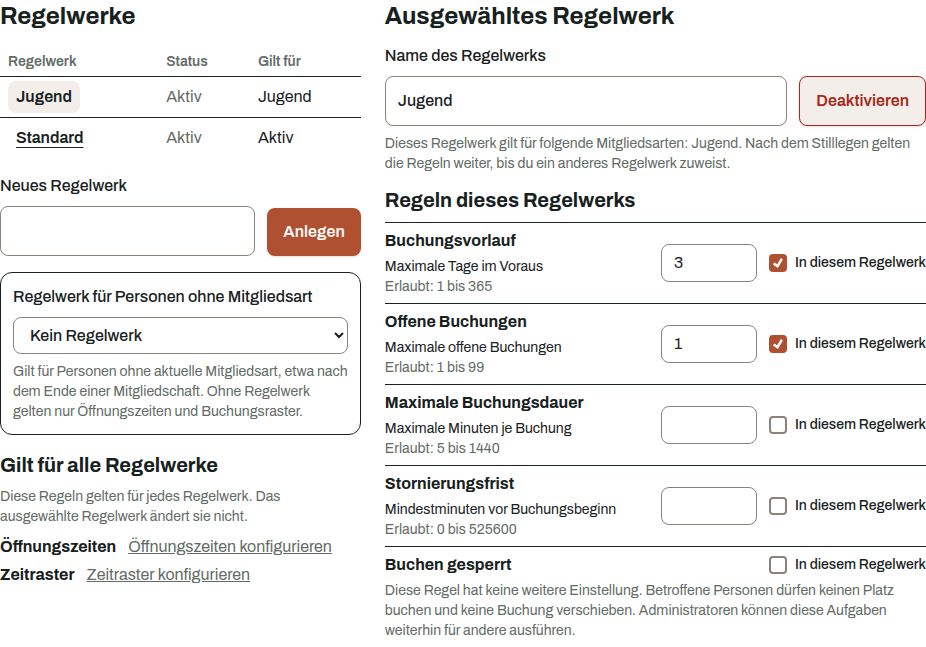
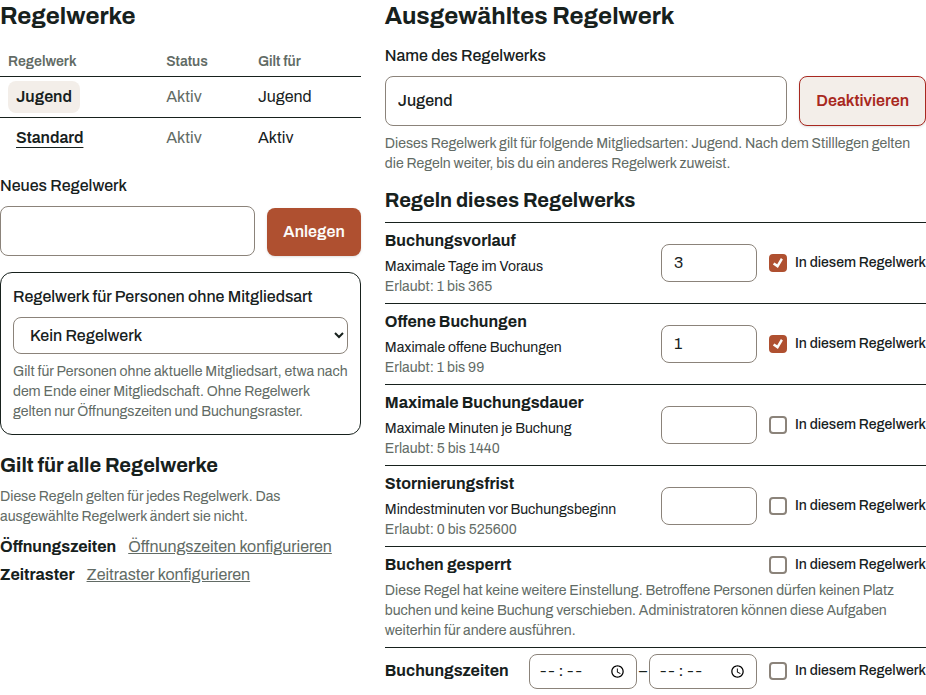
fix(web): fit the booking-hours times beside their title in both languages
The rule row keeps the board's configuration page within one desktop screen.
The allowed range of a whole day says nothing a time input does not, so it
stays as the inputs' description for screen readers only, and the inputs
are wide enough for a 12-hour time such as 10:00 PM.

diff --git a/frontend/src/views/configuration/AdminRuleSetsView.tsx b/frontend/src/views/configuration/AdminRuleSetsView.tsx
@@ -366,7 +366,7 @@ function RuleEditor({ type, stored, edit, disabled, changed }: { type: RuleTypeC
     aria-describedby={rangeId(parameter)} disabled={disabled}
     type={parameter.kind === "TIME_OF_DAY" ? "time" : "number"}
     min={shown(parameter, parameter.minimum)} max={shown(parameter, parameter.maximum)}
-    className="form-control w-24 max-w-40 rounded-lg border px-3 py-1.5"
+    className={`form-control ${parameter.kind === "TIME_OF_DAY" ? "w-[7rem] px-1.5 text-sm" : "w-24 px-3"} max-w-40 rounded-lg border py-1.5`}
     value={edit.params[parameter.name] === undefined ? "" : shown(parameter, edit.params[parameter.name])}
     onChange={(event) => changed({ applies: true, params: entered(edit.params, parameter, event.target.value) })} />;
   const first = type.parameters[0];
@@ -375,7 +375,7 @@ function RuleEditor({ type, stored, edit, disabled, changed }: { type: RuleTypeC
     <div className="grid min-w-0 gap-1">
       <h4 data-testid={`rule-${type.ruleType}-title`} className="font-bold">{t(`admin.rules.type.${type.ruleType}`)}</h4>
       {timeWindow && first && last
-        ? <p id={`rule-${type.ruleType}-range`} data-testid={`rule-${type.ruleType}-range`} className="text-muted text-sm">
+        ? <p id={`rule-${type.ruleType}-range`} data-testid={`rule-${type.ruleType}-range`} className="sr-only">
           {t("admin.rules.range", { minimum: shown(first, first.minimum), maximum: shown(last, last.maximum) })}
         </p>
         : type.parameters.map((parameter) => <p key={parameter.name} className="text-sm">
@@ -387,7 +387,7 @@ function RuleEditor({ type, stored, edit, disabled, changed }: { type: RuleTypeC
     </div>
     <div className="flex flex-wrap items-center gap-3">
       {timeWindow && first && last
-        ? <span className="flex items-center gap-1">{input(first)}<span aria-hidden="true">–</span>{input(last)}</span>
+        ? <span className="flex items-center gap-0.5">{input(first)}<span aria-hidden="true">–</span>{input(last)}</span>
         : type.parameters.map(input)}
       <label className="flex items-center gap-2 text-sm font-medium">
         <input data-testid={`rule-${type.ruleType}-applies`} type="checkbox" disabled={disabled} checked={edit.applies}
